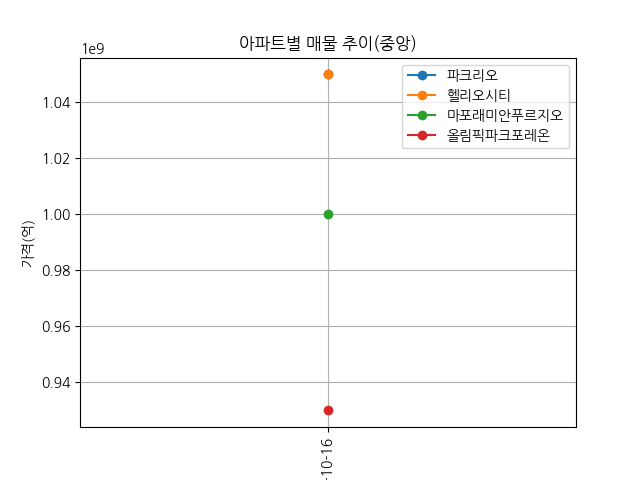
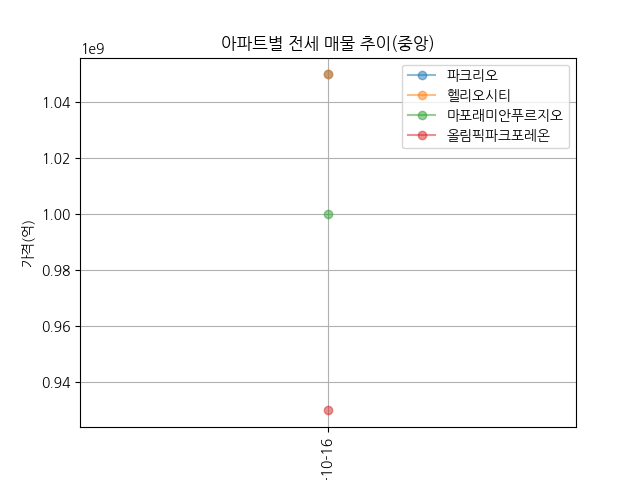
feat: 전세 매물 그래프 추가

Changed region(s): [[0.3438, 0.0625, 0.6875, 0.3125], [0.5, 0.8438, 0.5312, 0.875], [0.5, 0.4375, 0.5312, 0.4688]]

diff --git a/src/notifier.py b/src/notifier.py
@@ -178,8 +178,8 @@ def sales_aggregation(date_id):
     return message
 
 
-def sales_trend(agg_type: Literal["mean", "median", "min", "count"]):
-    return os.path.join(PathConfig.graph, f"sales_trend_{agg_type}.png")
+def sales_trend(agg_type: Literal["mean", "median", "min", "count"], sales_type: Literal['sales', 'rent']):
+    return os.path.join(PathConfig.graph, f"{sales_type}_trend_{agg_type}.png")
 
 
 def parse():
@@ -212,97 +212,52 @@ if __name__ == "__main__":
 
     sgg_contains = FilterConfig.sgg_contains
     apt_contains = FilterConfig.apt_contains
+    #
+    # # 월별 계약 현황
+    # for month in [last_month, this_month]:
+    #     task_id = get_task_id(__file__, month, "monthly")
+    #     msg = daily_aggregation(month, date_id=date_id, sgg_contains=sgg_contains)
+    #     chat_id = test_chat_id if mode == "test" else monthly_chat_id
+    #
+    #     bm = BatchManager(task_id=task_id, key=date_id, block=block)
+    #     bm(task_type="message", func=send_message, text=msg, chat_id=chat_id)
+    #
+    # # 신규 거래
+    # for month in [last_month, this_month]:
+    #     task_id = get_task_id(__file__, month, "daily_new_trade")
+    #     msg = daily_new_trade(
+    #         month, date_id=date_id, apt_contains=apt_contains, filter_new=True
+    #     )
+    #     chat_id = test_chat_id if mode == "test" else detail_chat_id
+    #
+    #     bm = BatchManager(task_id=task_id, key=date_id, block=block)
+    #     bm(task_type="message", func=send_message, text=msg, chat_id=chat_id)
+    #
+    # # 매물 집계
+    # task_id = get_task_id(__file__, this_month, "sales_aggregation")
+    # msg = sales_aggregation(date_id=date_id)
+    # chat_id = test_chat_id if mode == "test" else monthly_chat_id
+    #
+    # bm = BatchManager(task_id=task_id, key=date_id, block=block)
+    # bm(
+    #     task_type="message",
+    #     task_id=task_id,
+    #     func=send_message,
+    #     text=msg,
+    #     chat_id=chat_id,
+    # )
 
-    # 월별 계약 현황
-    for month in [last_month, this_month]:
-        task_id = get_task_id(__file__, month, "monthly")
-        msg = daily_aggregation(month, date_id=date_id, sgg_contains=sgg_contains)
-        chat_id = test_chat_id if mode == "test" else monthly_chat_id
-
-        bm = BatchManager(task_id=task_id, key=date_id, block=block)
-        bm(task_type="message", func=send_message, text=msg, chat_id=chat_id)
-
-    # 신규 거래
-    for month in [last_month, this_month]:
-        task_id = get_task_id(__file__, month, "daily_new_trade")
-        msg = daily_new_trade(
-            month, date_id=date_id, apt_contains=apt_contains, filter_new=True
-        )
-        chat_id = test_chat_id if mode == "test" else detail_chat_id
-
-        bm = BatchManager(task_id=task_id, key=date_id, block=block)
-        bm(task_type="message", func=send_message, text=msg, chat_id=chat_id)
-
-    # 매물 집계
-    task_id = get_task_id(__file__, this_month, "sales_aggregation")
-    msg = sales_aggregation(date_id=date_id)
-    chat_id = test_chat_id if mode == "test" else monthly_chat_id
-
-    bm = BatchManager(task_id=task_id, key=date_id, block=block)
-    bm(
-        task_type="message",
-        task_id=task_id,
-        func=send_message,
-        text=msg,
-        chat_id=chat_id,
-    )
-
-    # 매물 그래프 - 평균
-    agg_type = "mean"
-    task_id = get_task_id(__file__, f"sales_trend_{agg_type}")
-    photo = sales_trend(agg_type=agg_type)
-    chat_id = test_chat_id if mode == "test" else monthly_chat_id
-
-    bm = BatchManager(task_id=task_id, key=date_id, block=block)
-    bm(
-        task_type="photo",
-        task_id=task_id,
-        func=send_photo,
-        photo=photo,
-        chat_id=chat_id,
-    )
-
-    # 매물 그래프 - 중앙
-    agg_type = "median"
-    task_id = get_task_id(__file__, f"sales_trend_{agg_type}")
-    photo = sales_trend(agg_type=agg_type)
-    chat_id = test_chat_id if mode == "test" else monthly_chat_id
-
-    bm = BatchManager(task_id=task_id, key=date_id, block=block)
-    bm(
-        task_type="photo",
-        task_id=task_id,
-        func=send_photo,
-        photo=photo,
-        chat_id=chat_id,
-    )
-
-    # 매물 그래프 - 최저
-    agg_type = "min"
-    task_id = get_task_id(__file__, f"sales_trend_{agg_type}")
-    photo = sales_trend(agg_type=agg_type)
-    chat_id = test_chat_id if mode == "test" else monthly_chat_id
-
-    bm = BatchManager(task_id=task_id, key=date_id, block=block)
-    bm(
-        task_type="photo",
-        task_id=task_id,
-        func=send_photo,
-        photo=photo,
-        chat_id=chat_id,
-    )
-
-    # 매물 그래프 - 매물 수
-    agg_type = "count"
-    task_id = get_task_id(__file__, f"sales_trend_{agg_type}")
-    photo = sales_trend(agg_type=agg_type)
-    chat_id = test_chat_id if mode == "test" else monthly_chat_id
-
-    bm = BatchManager(task_id=task_id, key=date_id, block=block)
-    bm(
-        task_type="photo",
-        task_id=task_id,
-        func=send_photo,
-        photo=photo,
-        chat_id=chat_id,
-    )
+    # 매물 그래프
+    sales_types = ['sales', 'rent']
+    agg_types = ['mean', 'median', 'min', 'count']
+    for sales_type in sales_types:
+        for agg_type in agg_types:
+            bm = BatchManager(
+                task_id=get_task_id(__file__, date_id, f"{sales_type}_{agg_type}"), key=date_id, block=block
+            )
+            bm(
+                task_type="photo",
+                func=send_photo,
+                photo=sales_trend(sales_type=sales_type, agg_type=agg_type),
+                chat_id=test_chat_id if mode == 'test' else monthly_chat_id,
+            )

diff --git a/src/analysis.py b/src/analysis.py
@@ -71,6 +71,10 @@ def sales_trend(
         'sales': PathConfig.sales,
         'rent': PathConfig.rent
     }
+    sales_ko_map = {
+        'sales': '매매',
+        'rent': '전세'
+    }
 
     df = pd.read_parquet(sales_map[sales_name])
     data, sorted_apt_names = _sales_trend_prep(
@@ -78,7 +82,7 @@ def sales_trend(
     )
     converted_agg_type = agg_type_converter[agg_type]  # average -> 평균
     fig, ax = plt.subplots()
-    ax.set_title(f"아파트별 매물 추이({converted_agg_type})")
+    ax.set_title(f"아파트별 {sales_ko_map[sales_name]} 매물 추이({converted_agg_type})")
     ax.set_xlabel("날짜")
     if agg_type == "count":
         ax.set_ylabel("갯수")
@@ -87,7 +91,7 @@ def sales_trend(
     plt.xticks(rotation=90)
     for apt_name in sorted_apt_names:
         panel = data[data["아파트명"] == apt_name]
-        ax.plot(panel["date_id"], panel[converted_agg_type], marker="o")
+        ax.plot(panel["date_id"], panel[converted_agg_type], marker="o", alpha=0.5)
 
     ax.grid()
     ax.legend(sorted_apt_names)
